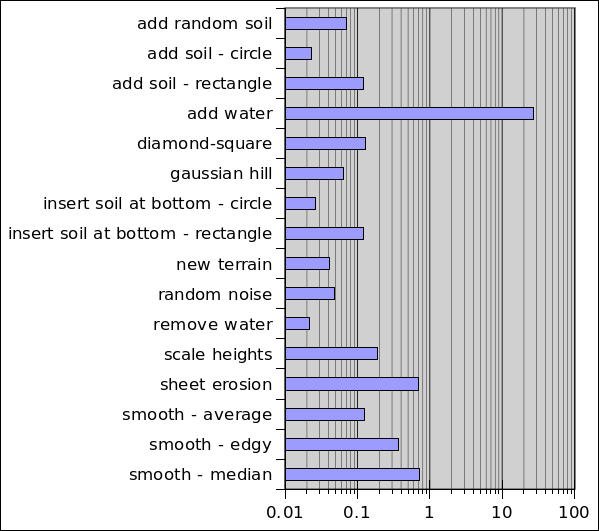
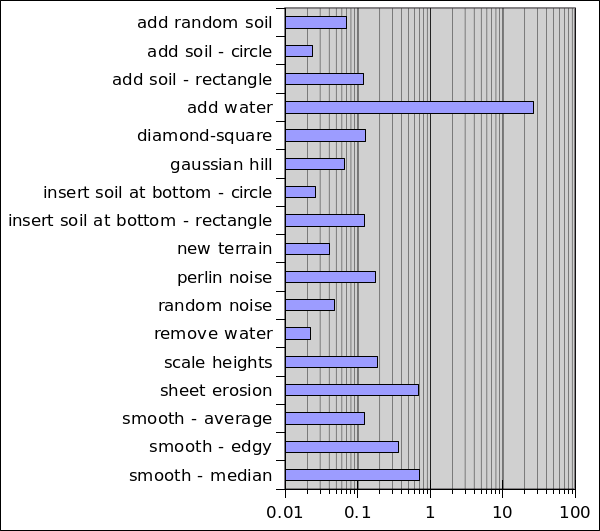
Add missing perlin noise performance test for the primary goal. Add secondary goal performance tests.

Changed region(s): [[0.0, 0.0, 0.9015, 0.9944], [0.9316, 0.0301, 0.9616, 0.904], [0.8414, 0.9341, 0.8715, 0.9944]]

diff --git a/documentation/implementation.md b/documentation/implementation.md
@@ -15,16 +15,16 @@ There are two different user interface modes, a graphical user interface using J
 ## Performance
 The important action happens inside the different tools. There are couple different ways to produce similar results, but there are no real overlapping of the tools created. Thus the performance testing does not try to achieve identical end products, but instead "usable" end products via different methods. A usable end product is something that would work as a terrain for some game.
 
-The main goal of the project is to be able to pre-generate terrains to be used in games, secondary goal is to have the system operate fast enough for generating the terrains in real-time in the games.
+The primary goal of the project is to be able to pre-generate terrains to be used in games, secondary goal is to have the system operate fast enough for generating the terrains in real-time in the games.
 
 
-### The main goal: produce terrains
+### The primary goal: produce terrains
 The terrains can be generated via scripting, but to script, one has to know good parameters and tool combinations to use. Thus the users are going to use the graphical interactive user interface and its operating speed is important, user should not need to wait for minutes or hours for an operation to complete. Instead the operations should be near real-time. According to Nielsen, the operations should take less than 1 second, but a maximum of 10 seconds is tolerable: [Response Times: The 3 Important Limits by Jakob Nielsen](https://www.nngroup.com/articles/response-times-3-important-limits/).
 
 The size of the terrain has a large impact because most tools operate on the whole terrain. The game in question greatly affects how large terrain is required, affecting factors include what kind of world the game depicts, how the world is viewed, and what kind of rendering techniques are used. Some games might have one large terrain spanning several square kilometers, with lot's of detail. Some games might have streaming and/or level system so that the size of a single terrain remains small, tens of square meters. If the terrain is viewed from the ground level, more detail is required than when viewing from higher altitudes. Some kind of middle ground is taken here, reference terrain size shall be 1024x1024 tiles.
 
 
-### Secondary goal: real-time terrain generation in games
+### The secondary goal: real-time terrain generation in games
 Practically all computer systems nowadays contains processors with multiple cores, so it is assumed that one CPU core can be used for terrain generation in real-time game. Games generating terrain in real-time do it in patches, and the performance requirement is based on how fast the player can move from one patch to another. Pre-generating patches in advance can give some room for performance stalls if the player is not constantly moving at maximum speed. The direction player is moving can be easily known in advance, or it might be somewhat random. When the system can not in advance know what is the next patch the player is going to, it needs to generate multiple patches at same time. Consider the following image of 5x5 patches, where player is in the green patch at the middle:
 
 ![Player in grid](player_in_grid.png)
@@ -72,6 +72,7 @@ echo "run scripts/perf-large.txt" | mvn compile exec:java -Dexec.args="--timing 
   <tr><td>insert soil at bottom - circle</td>   <td>0.025869s</td></tr>
   <tr><td>insert soil at bottom - rectangle</td><td>0.122741s</td></tr>
   <tr><td>new terrain</td>                      <td>0.040948s</td></tr>
+  <tr><td>perlin noise</td>                     <td>0.177125</td></tr>
   <tr><td>random noise</td>                     <td>0.047644s</td></tr>
   <tr><td>remove water</td>                     <td>0.0219s</td></tr>
   <tr><td>scale heights</td>                    <td>0.187417s</td></tr>
@@ -83,9 +84,23 @@ echo "run scripts/perf-large.txt" | mvn compile exec:java -Dexec.args="--timing 
 <td><img alt="Time taken by operations, logarithmic scale" src="perf-large.png">Time taken by operations, logarithmic scale</td>
 </tr>
 </table>
+Apart from the water adding operation, all operations finish in less than 1 second.
 
 ### Secondary goal: real-time terrain generation in games
-
+The used scriptfile can be found from [scripts/perf-large.txt](../scripts/perf-large.txt), it was executed using the following command:
+```
+echo "run scripts/perf-large.txt" | mvn compile exec:java -Dexec.args="--timing --no-gui"
+```
+<table>
+  <tr><th>Description</th><th>Time</th></tr>
+  <tr><td>General landscape with perlin noise</td> <td>1.554698s</td></tr>
+  <tr><td>General landscape with diamond-square</td> <td>0.500796s</td></tr>
+  <tr><td>Couple hills with perlin noise base</td> <td>1.389787s</td></tr>
+  <tr><td>Couple hills with diamond-square base</td> <td>0.45171s</td></tr>
+  <tr><td>Couple hills and water with perlin noise base</td> <td>43.961907s</td></tr>
+  <tr><td>Couple hills and water with diamond-square base</td> <td>50.062579s</td></tr>
+</table>
+![Time taken, logarithmic scale](perf-small.png)
 
 
 ## Algorithm complexities

diff --git a/documentation/project_specification.md b/documentation/project_specification.md
@@ -1,11 +1,14 @@
 # Project specification
 Plortz is a software written in Java to generate rectangular areas of terrains suitable to be used in games etc. The terrains consists of data points to define the landscape elevation data and other attributes, such as the type of the land (for example dirt, sand, snow, water). These are commonly referred to as heightmaps.
 
+The primary goal of the project is to be able to pre-generate terrains to be used in games, secondary goal is to have the system operate fast enough for generating the terrains in real-time in the games.
+
 Initial implementation will contain only one layer of the data accross the landscape. Optionally this is extended into multiple layers so that underground land formation can be taken into account when applying tools and physics simulation.
 
 The terrain generation starts with flat empty ground, the user is then able to apply different tools to modify the terrain.
 
 Two user interfaces are provided, commands can be given through the standard input, or via a GUI with the help of mouse. The output will be two 2d images, a grayscale image with the elevation information, and a color image with the land type information. Optionally a 3d viewer is created to see the result from any angle.
+
 
 
 ## User tools
